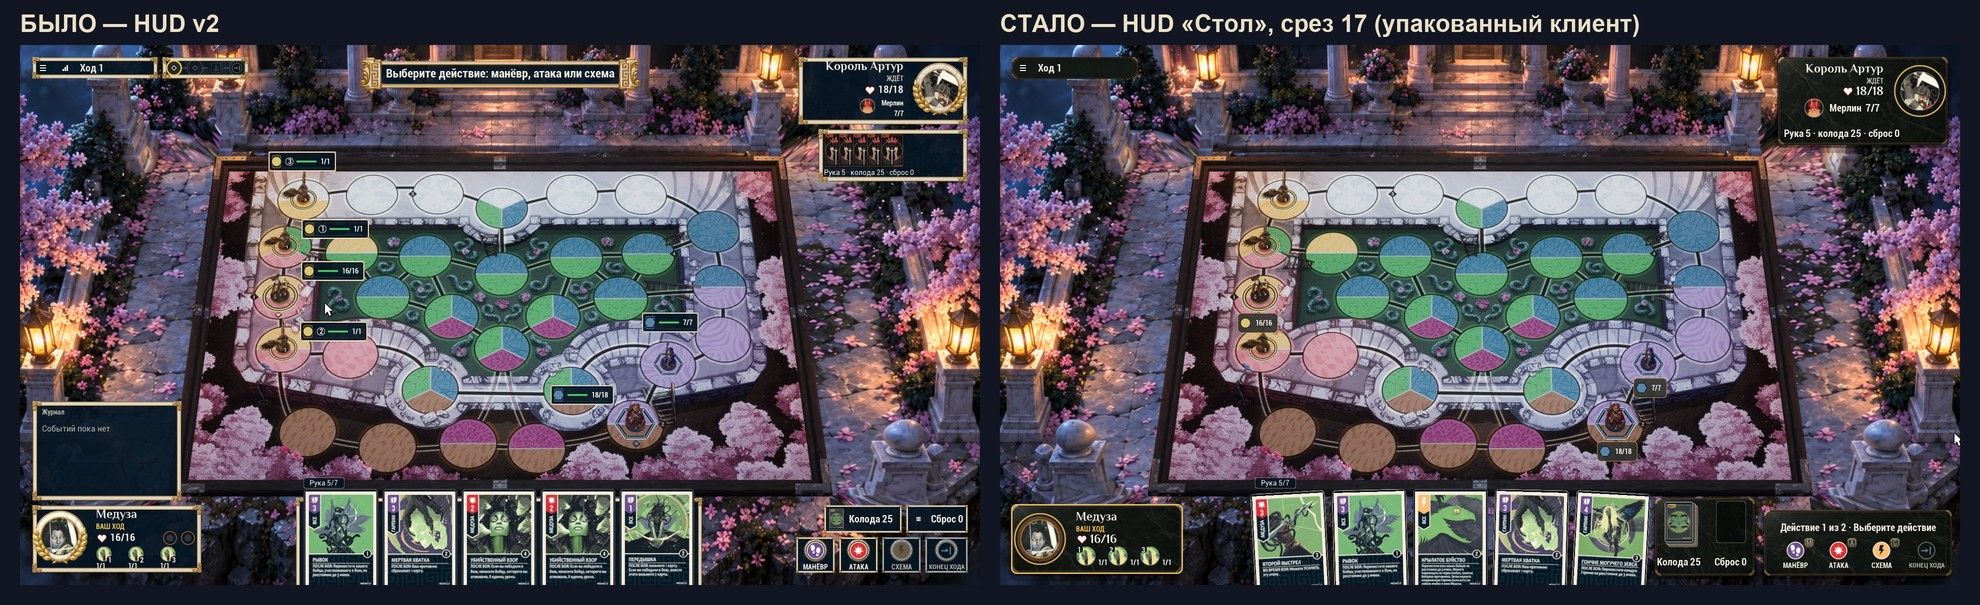
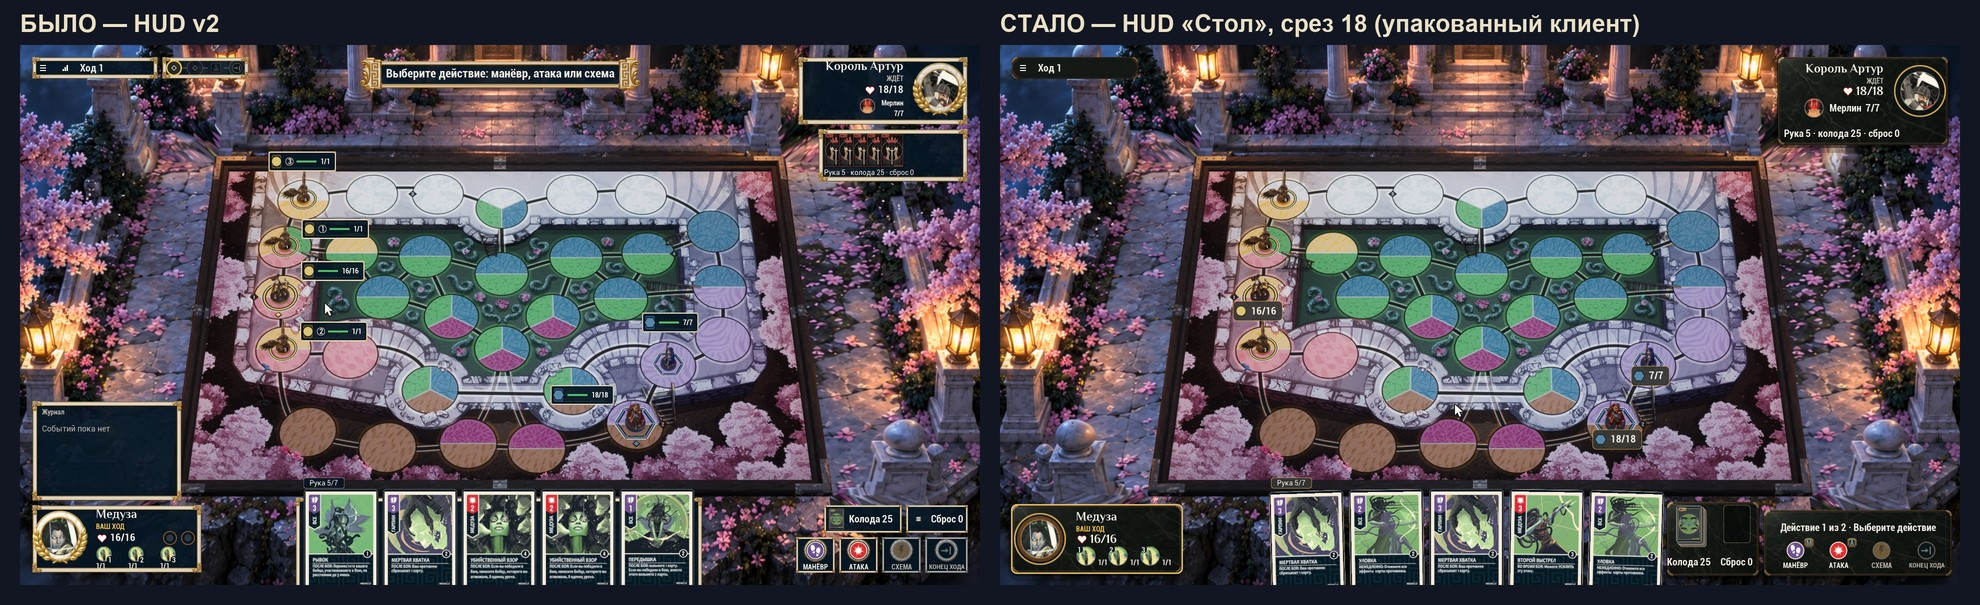
docs(hud): slice 18 pass and its blind review (Astra xhigh 7.3 vs 5.3, Opus max 6.8 vs 4.5)

diff --git a/docs/game-design/hud-redesign/blind-s18/REVIEW-ASTRA-XHIGH.md b/docs/game-design/hud-redesign/blind-s18/REVIEW-ASTRA-XHIGH.md
@@ -1,0 +1,29 @@
+| Критерий · 10 = лучший результат | A | B |
+|---|---:|---:|
+| Визуальная цельность, единый язык материалов | 6 | 8 |
+| Уровень премиальной цифровой настолки | 6 | 7 |
+| Отсутствие лишних иконок и украшений | 4 | 8 |
+| Компоновка, иерархия внимания | 5 | 7 |
+| Читаемость при 1080p | 6 | 7 |
+| Дорогое, взрослое впечатление | 5 | 7 |
+| **Среднее** | **5,3** | **7,3** |
+
+**B лучше на 2,0 балла.** Поле и миниатюры читаются свободнее, показатели здоровья привязаны к фигурам, панели меньше конкурируют между собой. В A повторяющиеся золотые рамки, отдельные плашки и служебные значки превращают почти каждый элемент в акцент. При этом B ещё не достигает уровня MTG Arena: композиция спокойнее, но отделка панелей и нижняя зона требуют работы.
+
+Пять главных проблем **B**, по убыванию важности:
+
+1. **Низ по центру — рука карт.** Карты обрезаны краем экрана; мелкий текст эффектов нельзя комфортно прочитать. Поднять руку до полного отображения карт с нижним отступом; обеспечить крупный просмотр при наведении без перекрытия выбранной цели.
+
+2. **Низ справа — выбор действия.** Главная инструкция зажата над рядом небольших однотипных круглых кнопок. Доступность «Схемы» и «Конца хода» приходится угадывать по приглушённости. Усилить доступные кнопки контрастной подложкой, явно разделить состояния; «Действие 1 из 2» оформить как вторичный индикатор рядом с более заметным «Выберите действие».
+
+3. **Левая часть поля и низ слева — идентификация гарпий.** Номера на основаниях миниатюр слишком малы для быстрого сопоставления с тремя портретами. Сделать одинаковые контрастные номерные метки на поле и панели; при наведении подсвечивать соответствующую пару.
+
+4. **Периметр экрана, особенно справа — фонари и цветы за HUD.** Яркость и детализация декора продолжают перетягивать внимание с интерфейса. Локально приглушить фон вокруг панелей мягким затемнением и снижением насыщенности, сохранив свет и цвет самого поля.
+
+5. **Угловые панели — чёрный мрамор и золотая окантовка.** Материал согласован, но выглядит плоской текстурой внутри скруглённых прямоугольников. Ослабить мраморные прожилки, добавить тонкую внутреннюю фаску и согласованные блики/контактные тени. Премиальность здесь должна появиться через качество поверхности, а не дополнительный орнамент.
+
+Из **A** стоит сохранить:
+
+- **Явную верхнюю подсказку следующего шага**, сделав её компактнее и облегчив рамку.
+- **Подробные показатели отдельных бойцов**, показывая их контекстно при выборе или наведении.
+- **Видимый доступ к журналу событий**, но со свёрнутым состоянием вместо большой пустой панели.

diff --git a/docs/game-design/hud-redesign/08-BLIND-FINAL.md b/docs/game-design/hud-redesign/08-BLIND-FINAL.md
@@ -253,3 +253,36 @@ Opus +1,5 против +1,9, у Astra +1,17 против +1,5. Оценки чи
 4. **Панели игроков.** Нужна зеркальная сетка. Портреты — сырые вырезки арта: для исправления нужны новые
    портретные кадры, это новый арт.
 5. **Колода и сброс.** Блок занимает много места.
+
+## Проход по общим замечаниям среза 17 — срез 18 (2026-10-16, 77a80608)
+
+Задание пользователя: «Сделай проход по совпадающим замечаниям среза 17 (значки v3 не трогай)».
+
+| Замечание (общее у Astra и Opus) | Что сделано |
+|---|---|
+| Текст карт перекошен, рука левее оси | Наклон не больше 1,5°. Лоток стопок сужен до 184 su, зазоры — до 4 su: карта стопки 54×76, лоток ниже. Ряд руки встаёт примерно в 20 su от оси экрана (было около 60). |
+| Чипы HP заходят на соседние клетки, цифры мелкие | Цифры набраны кеглем кнопок, чип сидит на переднем краю своей подставки. |
+| «Рука 5/7» — синяя таблетка из чужого набора | Перекрашена в тёмный камень панелей с золотым кантом. |
+| Колода и сброс занимают много места | Лоток стал ниже и уже, счётчики остались кеглем кнопок. |
+
+Значки v3 не менялись. Тесты Unmatched.S08 — 397/397; в ArtHudUmg.TagTokens закреплены токены HUD v2. Проверено вживую
+на 1920×1080, 1280×720, 1440×1080 (S), 2560×1080 и на черновике манёвра. Кадр снят с упакованного клиента.
+
+### Слепое сравнение среза 18 (`blind-s18/`; новый HUD — B)
+
+| Рецензент | HUD v2 | «Стол» | Разница | Срез 17 | Срез 16 |
+|---|---:|---:|---:|---:|---:|
+| GPT Astra xhigh | 5,3 | **7,3** | **+2,0** | +1,33 | +1,83 |
+| Opus max | 4,5 | **6,8** | **+2,3** | +1,92 | +1,9 |
+
+У обоих рецензентов это наибольшая разница за все прогоны. Новый HUD выигрывает по всем шести критериям, в том
+числе по читаемости (7 против 6 у обоих). Opus формулирует так: «разница классов: A — мобильная F2P-оболочка,
+B — аккуратный инди-продукт».
+
+Что осталось по совпадающим замечаниям:
+1. **Панель действий.** Кнопки — голые диски, инструкция не выделена. Это значки v3, решает пользователь.
+2. **Чипы HP** всё ещё закрывают часть клетки. Предложение: только число и ободок цвета команды.
+3. **Материал плит.** Плоский; нужна фаска и блики, прожилки ослабить.
+4. **Портреты** выглядят как обрезки 3D-рендера. Opus называет их «главным оставшимся признаком дешевизны» — это новый
+   арт.
+5. **Рука** обрезана снизу (Astra).

diff --git a/docs/game-design/hud-redesign/blind-s18/REVIEW-OPUS-MAX.md b/docs/game-design/hud-redesign/blind-s18/REVIEW-OPUS-MAX.md
@@ -1,0 +1,47 @@
+# Слепое сравнение, срез 18 — Opus max (2026-10-16)
+
+- **A** — HUD v2.
+- **B** — HUD «Стол», срез 18 (упакованный клиент).
+
+Рецензенту не сообщалось, какой кадр новый.
+
+| Критерий | A | B |
+|---|---|---|
+| Цельность, единый материал | 5 | 7 |
+| Премиальная настолка / MTG Arena | 4 | 6 |
+| Захламлённость значками (10 — ничего лишнего) | 3 | 7,5 |
+| Ясность раскладки | 5 | 7 |
+| Читаемость | 6 | 7 |
+| Дёшево или премиально | 4 | 6,5 |
+| **Среднее** | **4,5** | **6,8** |
+
+**Вердикт:** B лучше по всем шести критериям, в сумме на 2,3 балла (около +50 %). Рецензент называет это «разницей
+классов»: A выглядит как мобильная F2P-оболочка, B — как аккуратный инди-продукт. До уровня Arena или LoR B пока не
+дотягивает.
+
+## Пять главных проблем B
+
+1. **Панель действий.**
+   *Что не так:* инструкция не выделена, кнопки — голые диски.
+   *Исправление:* заголовок в две строки, кнопки — монеты с фаской. Это значки v3, решает пользователь.
+2. **Плашка «Ход 1».**
+   *Что не так:* плашка пуста примерно на 60 %, материал не мраморный, состояние хода разнесено по трём местам.
+   *Исправление:* перенести «Ход 1» в заголовок панели действий; «ВАШ ХОД» вынести золотой лентой на портрет.
+3. **Фишки HP на поле.**
+   *Что не так:* закрывают нижнюю треть клетки.
+   *Исправление:* фишка около 56×24 px, только число, ободок цвета команды; поставить за кругом клетки.
+4. **Портреты.**
+   *Что не так:* серые обрезки 3D-рендера.
+   *Исправление:* рисованные погрудные портреты в стиле карт. Это новый арт.
+5. **Рука и колода.**
+   *Что не так:* рука сдвинута примерно на 27 px левее оси, пятая карта стоит в 8 px от колоды.
+   *Исправление:* перекрыть карты примерно на 15 px и центрировать руку по оси экрана.
+
+## Что взять из A
+
+- крупную подсказку (около 28 px);
+- кнопки-плитки с подложкой;
+- руку соперника мини-веером рубашек;
+- руку строго по оси экрана;
+- лавр — только у активного героя, меандр — на панели действий;
+- две точки действий вместо полосы этапов.

diff --git a/docs/game-design/hud-redesign/blind-s18/PROMPT.md b/docs/game-design/hud-redesign/blind-s18/PROMPT.md
@@ -1,0 +1,21 @@
+You are a senior game UI art director (references: MTG Arena, Hearthstone, Legends of Runeterra, Unmatched Digital
+Edition, premium digital adaptations of physical tabletop games).
+
+Two screenshots of the SAME digital board game (Unmatched, a 1v1 miniatures game; board Marmoreal) at 1920x1080,
+turn 1, show two different HUD versions: A.jpg and B.jpg (both attached / in this folder). You do NOT know which is
+older or newer; do not guess, judge only what you see. Be adversarial and honest; do not favour either.
+
+Score each HUD 1-10 on:
+1. visual cohesion / one material language
+2. resemblance to a premium physical tabletop / MTG Arena tier product
+3. icon clutter (10 = nothing superfluous)
+4. layout clarity / where to look, reading order
+5. readability (text sizes, contrast, at 1080p)
+6. cheap/childish vs premium impression
+
+Then:
+- which HUD is better overall and by how much (averages);
+- the 5 biggest remaining problems of the BETTER one, each located on screen (region + element) with a concrete fix;
+- anything the worse one does better that should be kept.
+
+Answer in Russian, compact: score table with averages, verdict, problem list. Do not modify any files.
